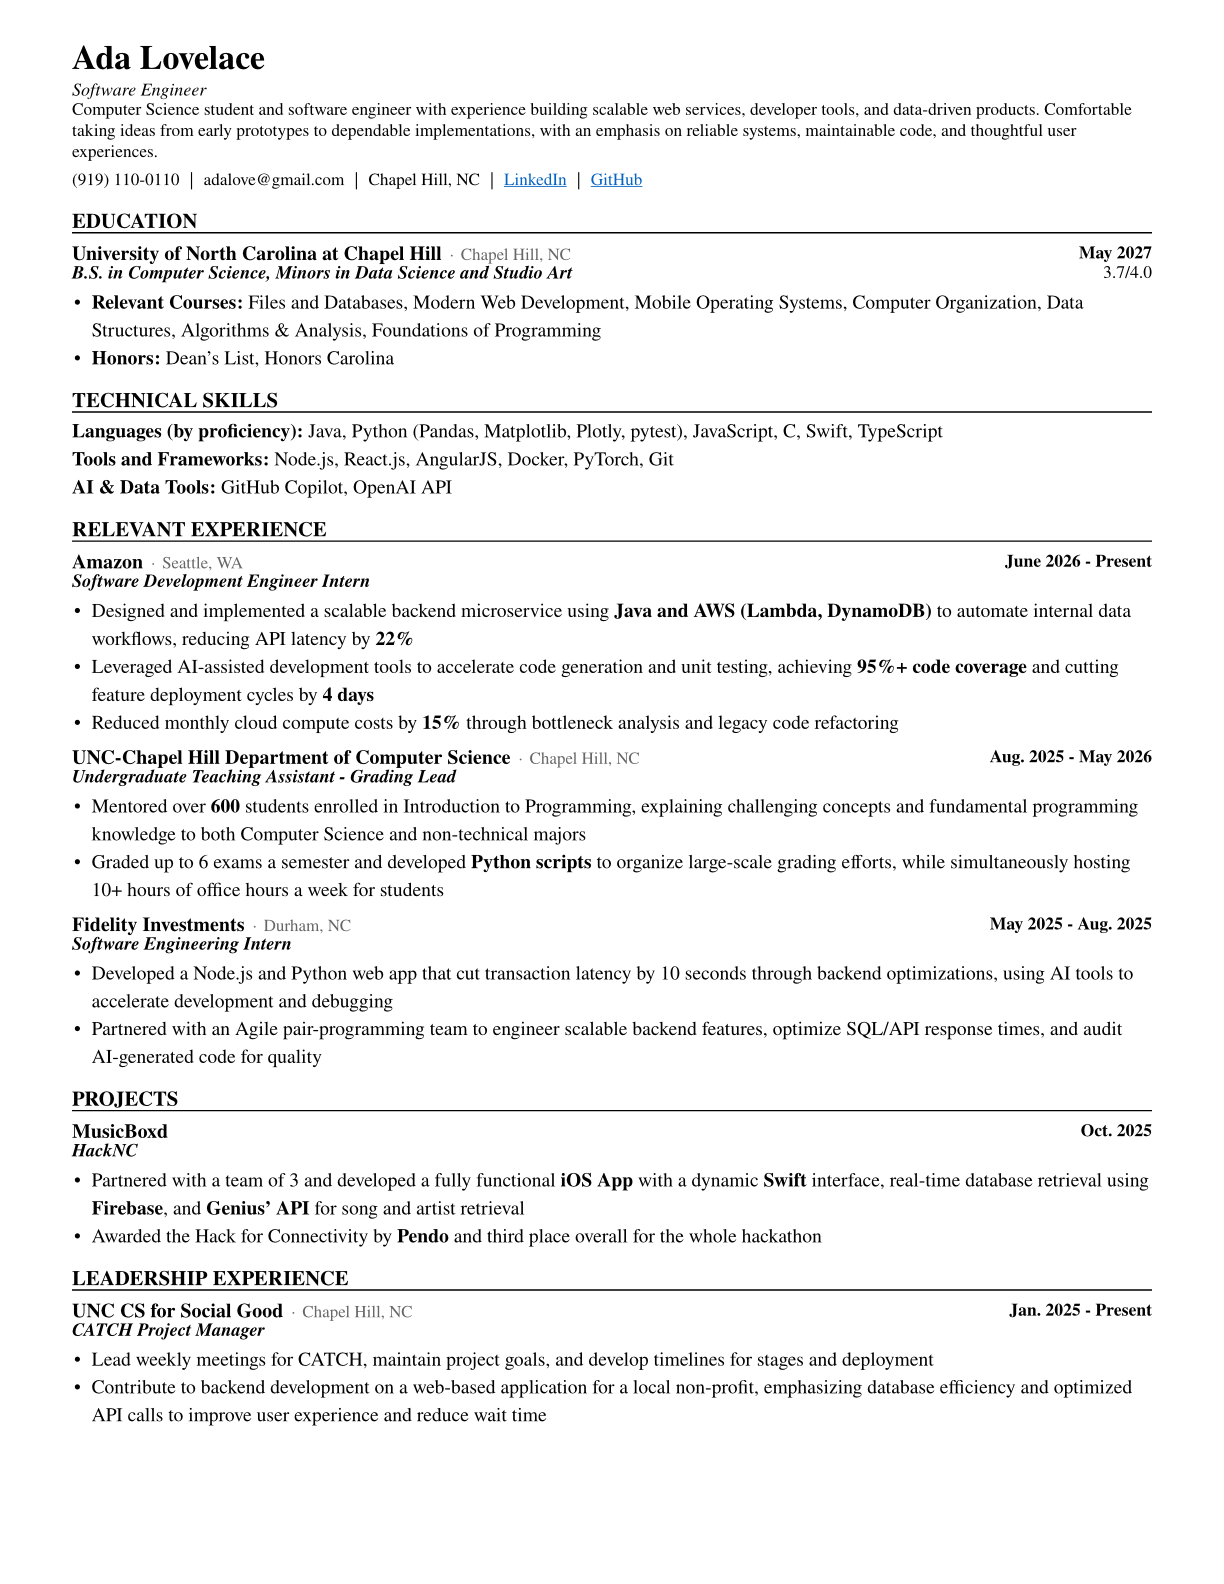
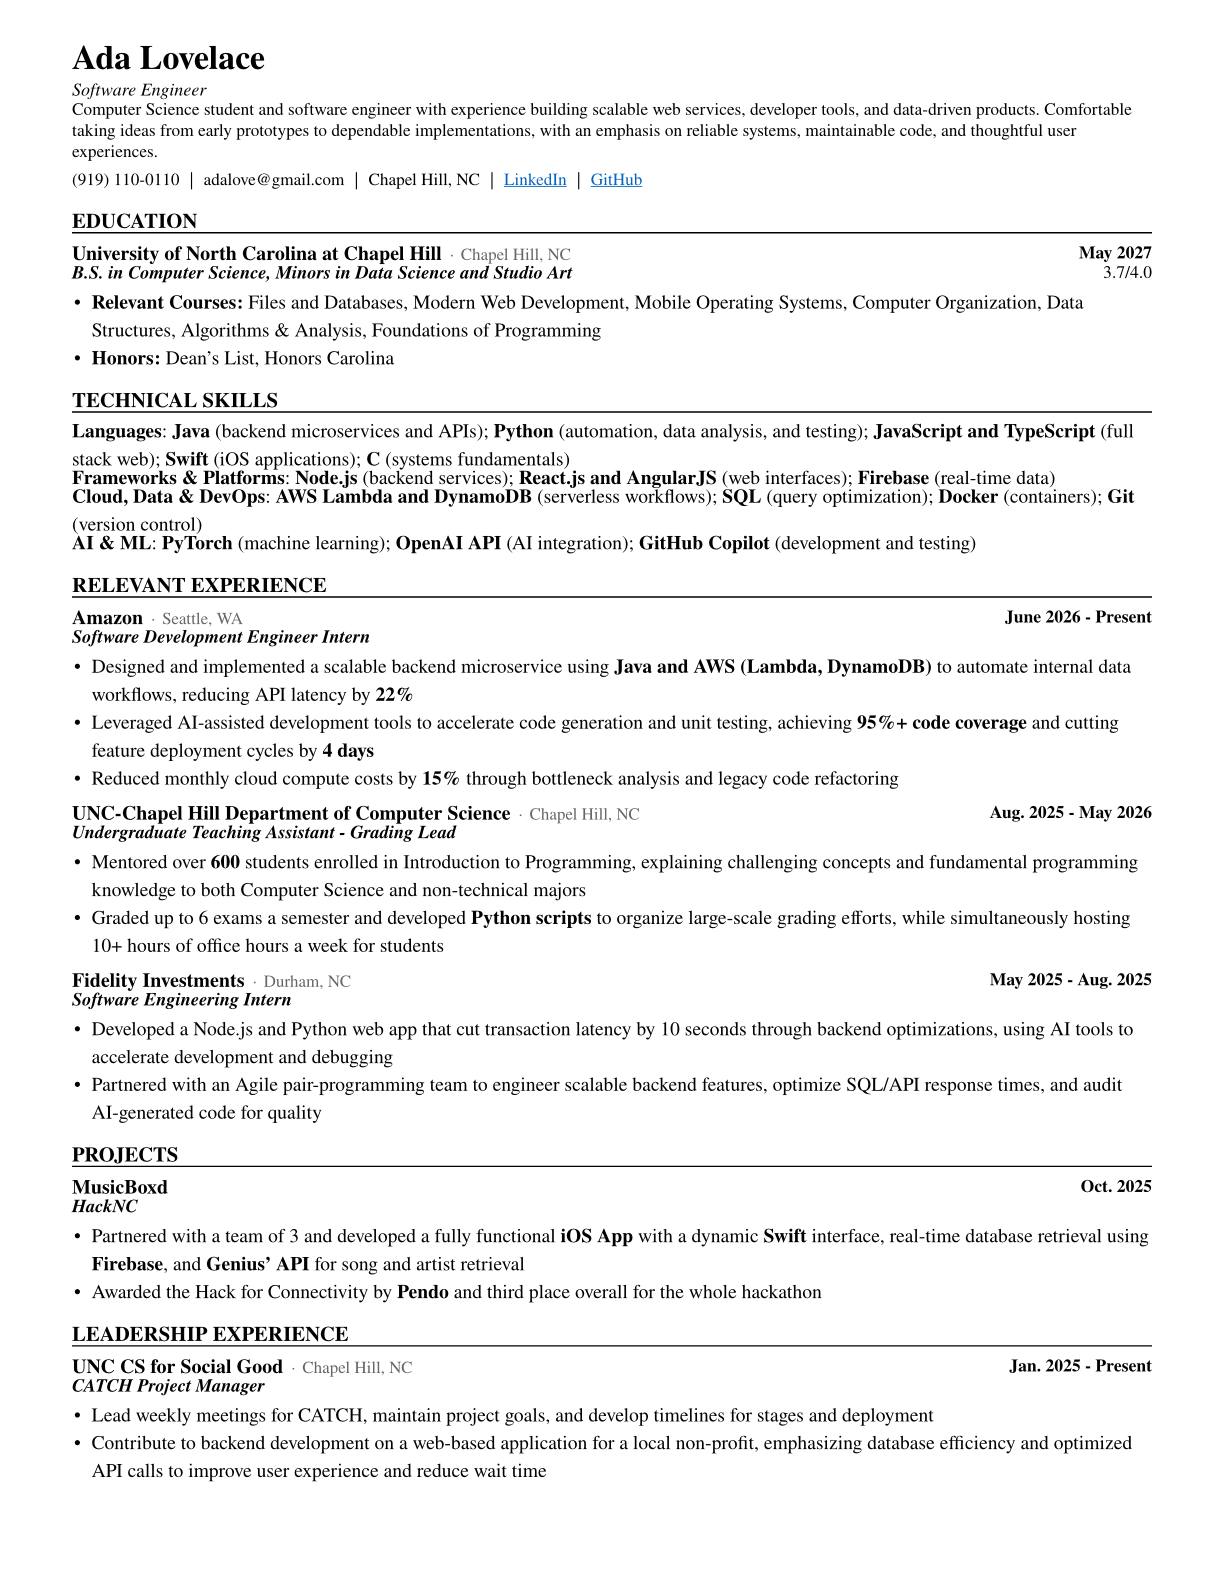
Release 0.4.0

Changed region(s): [[0.0621, 0.2475, 0.9314, 0.928]]

diff --git a/README.md b/README.md
@@ -7,7 +7,7 @@ A compact Typst resume template with a traditional, single-column layout.
 ## Usage
 
 ```typst
-#import "@local/simple-resume:0.3.6": resume, entry
+#import "@local/simple-resume:0.4.0": resume, entry, skills
 
 #show: resume.with(
   name: "Ada Lovelace",
@@ -33,6 +33,29 @@ A compact Typst resume template with a traditional, single-column layout.
   subtitle: [B.S. in Computer Science],
   grade: [First Class Honours],
 )
+
+= Technical Skills
+
+#skills(
+  (
+    category: [Languages],
+    technologies: (
+      (
+        technology: [Java],
+        proficiency: [Advanced],
+        scope: [backend services and APIs],
+      ),
+      (technology: [Python], scope: [automation and data analysis]),
+    ),
+  ),
+  (
+    category: [Cloud & DevOps],
+    technologies: (
+      (technology: [AWS], scope: [Lambda and DynamoDB]),
+      (technology: [Docker], scope: [containerized development]),
+    ),
+  ),
+)
 ```
 
 `tagline`, `summary`, and `photo` are optional. `photo` accepts content such as
@@ -44,3 +67,9 @@ Use `entry` for education, experience, projects, and leadership. `title` and
 `date` are required; `subtitle`, `location`, and `grade` are optional. Omit
 `grade` when it is not relevant. Sections and descriptions use regular Typst
 content.
+
+Use `skills` for compact, ATS-friendly technical skill groups. Each group
+requires `category` and one or more `technologies`. Each technology requires a
+`technology` name and at least one of `proficiency` or `scope`. The block uses a
+single-column reading order and plain punctuation rather than tables, icons, or
+rating graphics.
